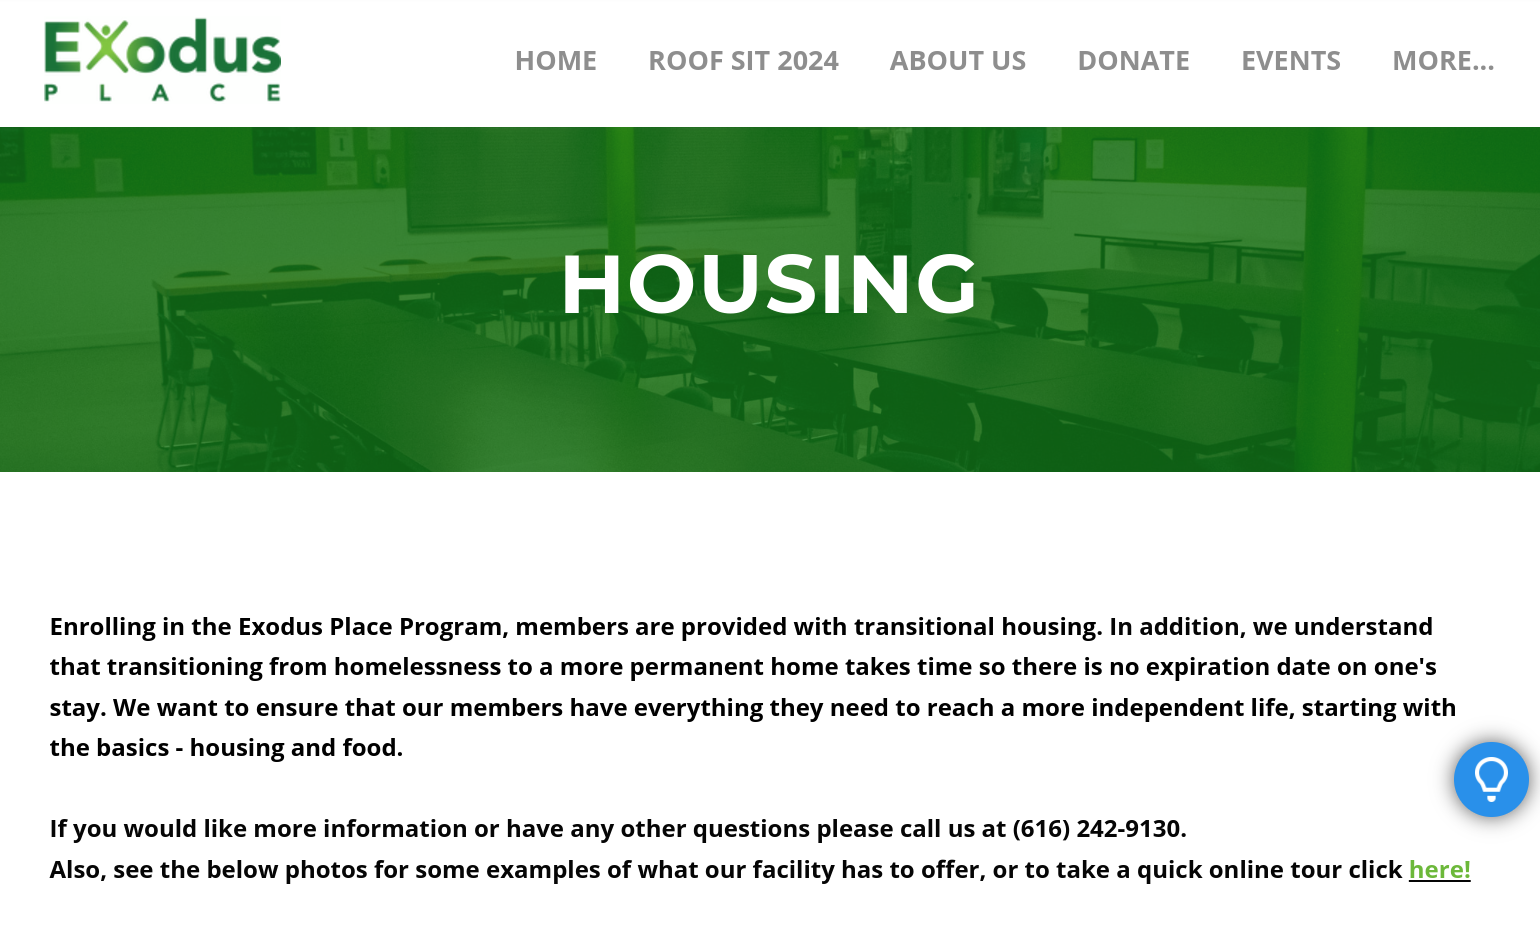
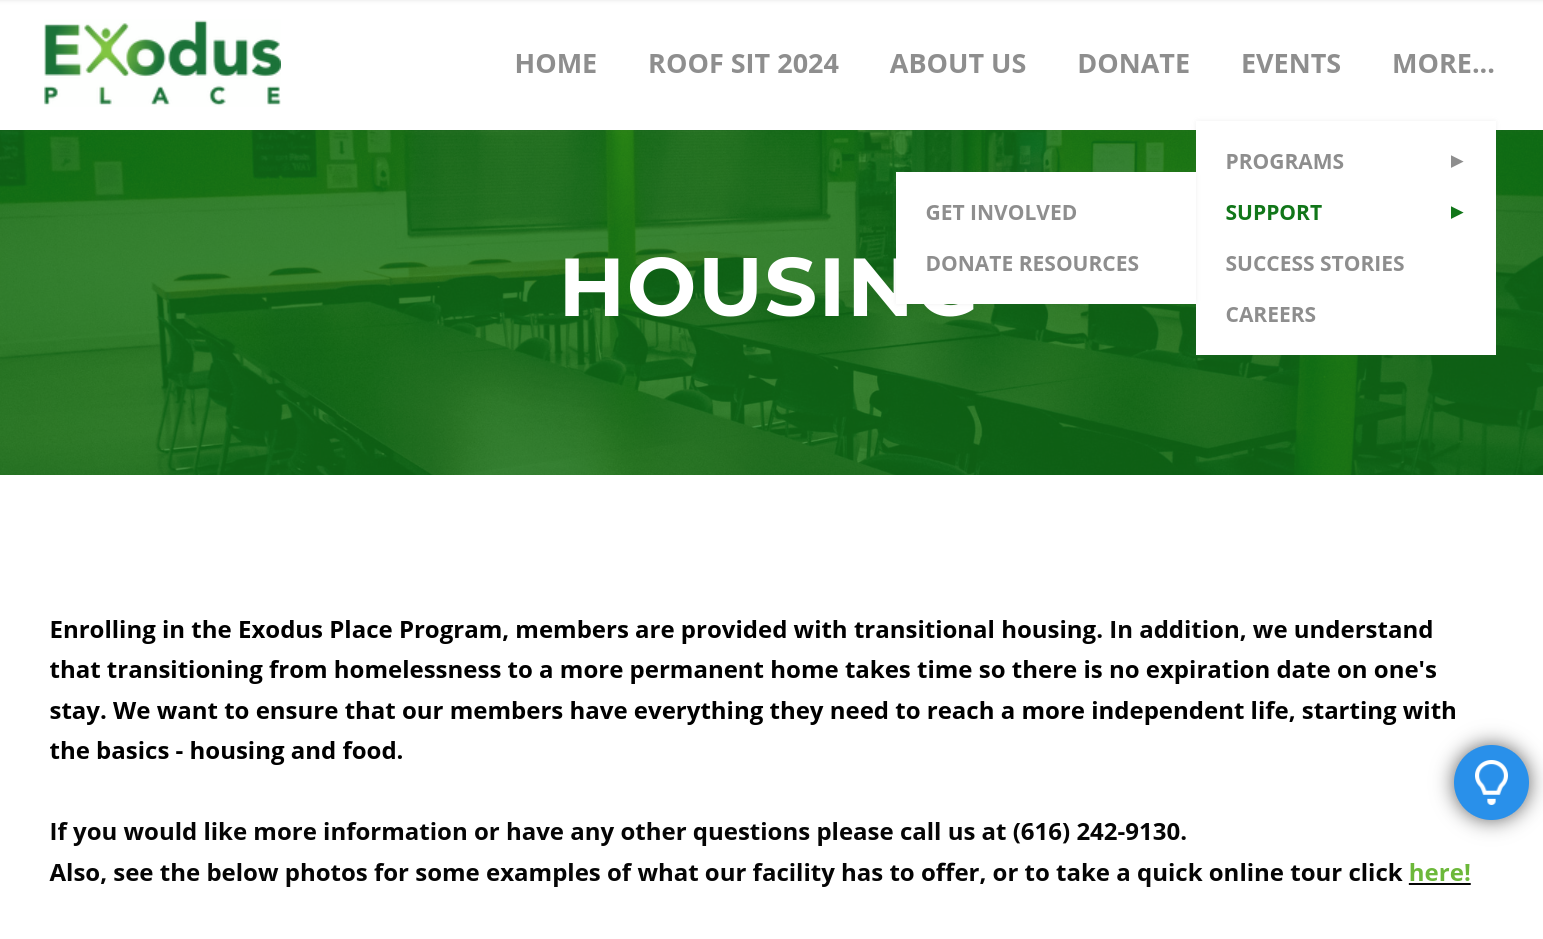
update exodusplace.org.html and old-website-2.png

diff --git a/exodusplace.org.html b/exodusplace.org.html
@@ -413,7 +413,7 @@
 
         <div class="flex flex-col justify-center items-center md:col-span-3 transition sm:min-h-[150px] h-fit mt-[-40px] mb-[-40px]">
           <img class="rounded-2xl" src="./images/ExodusPlace.org/grouping.png" alt="">
-          <p class="p-2">Improved Grouping in Navigation Bar Items</p>
+          <p class="p-2">Improved grouping for navigation bar items</p>
         </div>
 
         <div class="flex flex-col justify-center items-center col-span-1 transition sm:min-h-[150px] h-fit mt-[-40px] mb-[-40px]">
@@ -447,7 +447,7 @@
 
         <div class="flex flex-col justify-center items-center md:col-span-3 transition sm:min-h-[150px] h-fit mt-[-40px] mb-[-40px]">
           <img class="rounded-2xl" src="./images/ExodusPlace.org/housing.png" alt="">
-          <p class="p-2">Mobile Page is provided with additional buttons easier for users to click</p>
+          <!-- <p class="p-2">Mobile Page is provided with additional buttons easier for users to click</p> -->
         </div>
 
         <div class="flex flex-col justify-center items-center col-span-1 transition sm:min-h-[150px] h-fit mt-[-40px] mb-[-40px]">
